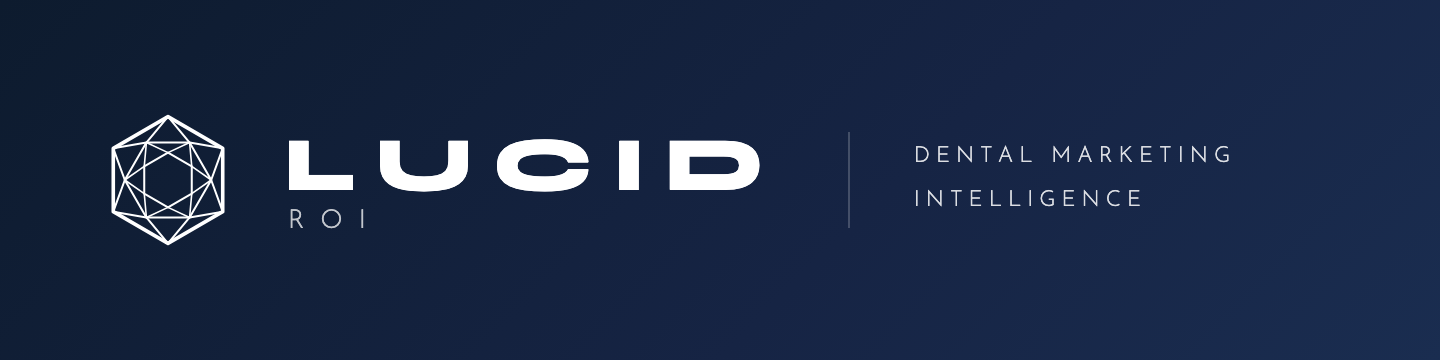
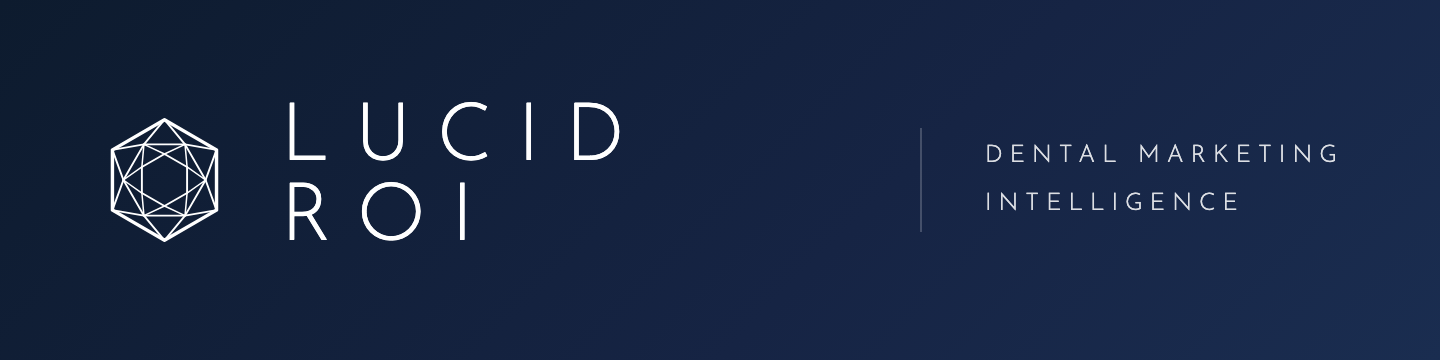
brand: canonical Lucid lockup image + typography unification
- lucid-lockup.png: mark + Josefin 300 wordmark + tagline baked into one
  transparent asset — renders identically everywhere incl. Gmail
- Email shell respects branding.showName/showTagline (lockup-only header)
- Signature banner regenerated in Josefin 300 (was Syne 800)

diff --git a/worker.js b/worker.js
@@ -1482,23 +1482,35 @@ function conciergeBrand(cfg, tenant) {
     navy: colors.navy || '#1B3A5C',
     accent: colors.gold || '#2D6FFF',
     tagline: b.tagline || '',
+    // When the logo is a full lockup (mark + wordmark baked into the image),
+    // the practice hides the text via the same Branding toggles the simulator
+    // uses — keeps typography pixel-identical everywhere, even in Gmail.
+    showName: b.showName !== false,
+    showTagline: b.showTagline !== false,
   };
 }
 
 function conciergeShell(brand, bodyHtml, footerHtml) {
   // Horizontal lockup: standalone geometric mark on the left (large), slim
-  // letter-spaced wordmark + tagline expanding to the right.
-  const mark = brand.logoUrl
-    ? `<td style="vertical-align:middle;width:60px"><img src="${brand.logoUrl}" alt="" style="height:56px;width:auto;display:block"></td><td style="width:18px"></td>`
-    : '';
+  // letter-spaced wordmark + tagline to the right. When showName is off the
+  // logo image IS the full lockup — render it alone, larger.
   const wordmarkFont = `font-family:'Josefin Sans','HelveticaNeue-Light','Helvetica Neue',Arial,sans-serif;font-weight:300`;
-  const header = `<table role="presentation" cellpadding="0" cellspacing="0" style="border-collapse:collapse"><tr>
+  const showText = brand.showName || !brand.logoUrl;
+  let header;
+  if (!showText && brand.logoUrl) {
+    header = `<img src="${brand.logoUrl}" alt="${brand.name}" style="height:58px;width:auto;display:block">`;
+  } else {
+    const mark = brand.logoUrl
+      ? `<td style="vertical-align:middle;width:60px"><img src="${brand.logoUrl}" alt="" style="height:56px;width:auto;display:block"></td><td style="width:18px"></td>`
+      : '';
+    header = `<table role="presentation" cellpadding="0" cellspacing="0" style="border-collapse:collapse"><tr>
       ${mark}
       <td style="vertical-align:middle">
         <div style="${wordmarkFont};font-size:23px;letter-spacing:9px;color:#ffffff;text-transform:uppercase;line-height:1">${brand.name}</div>
-        ${brand.tagline ? `<div style="${wordmarkFont};font-size:10px;letter-spacing:3.5px;color:rgba(255,255,255,0.65);text-transform:uppercase;margin-top:7px">${brand.tagline}</div>` : ''}
+        ${brand.tagline && brand.showTagline ? `<div style="${wordmarkFont};font-size:10px;letter-spacing:3.5px;color:rgba(255,255,255,0.65);text-transform:uppercase;margin-top:7px">${brand.tagline}</div>` : ''}
       </td>
     </tr></table>`;
+  }
   return `<div style="background:#f2f5fb;padding:28px 12px">
     <div style="max-width:560px;margin:0 auto;background:#ffffff;border-radius:14px;overflow:hidden;box-shadow:0 2px 14px rgba(10,22,40,0.07)">
       <div style="background:${brand.navy};padding:22px 30px">${header}</div>
